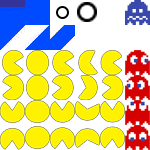
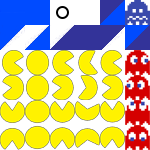
Last changes commit: maze edited; movement logic improvements; new textures added

Changed region(s): [[0.32, 0.0, 1.0, 0.3467], [0.0, 0.0, 0.1867, 0.0533]]

diff --git a/MyGame.cpp b/MyGame.cpp
@@ -3,43 +3,70 @@
 
 using namespace sf;
 
-const int H = 21;
-const int W = 48;
+const int H = 24;
+const int W = 60;
 
 const int ts = 25;
 
 int q = 0;
 bool life = true;
-//52
+
 String TileMap[H] = {
-"BBBBBBBBBBBBBBBBBBBBBBBaAAAAAAAAAAAAAAAAAAAAKBBB",//0
-"BBBBBBBBBBBBBBBBBBBBBBaK        aK        aKBBBB",//1
-"BBBBBBBBBBBBBBBBBBBBBaK aK aPK aK aPK aK aKBBBBB",//2
-"BBBBBBBBBBBBBBBBBBBBaK        aK        aKBBBBBB",//3
-"BBBBBBBBBBBBBBBBBBBaK aK aK aPPK aK aK aKBBBBBBB",//4
-"BBBBBBBBBBBBBBBBBBaK aK     aK     aK aKBBBBBBBB",//5
-"BBBBBBBBBBBBBBBBBaAAAK aPK aK aPK aAAAKBBBBBBBBB",//6
-"BBBBBBBBBBBBBBBBBBBaK aPK    aPK aKBBBBBBBBBBBBB",//7
-"BBBBBBBBBBBBBBBaAAAK aPK aK aPK aAAAKBBBBBBBBBBB",//8
-"BBBBBBBBBBBBBBBBB   aK      aK   BBBBBBBBBBBBBBB",//9
-"BBBBBBBBBBBBBaAAAK aK aAAK aK aAAAKBBBBBBBBBBBBB",//10
-"BBBBBBBBBBBBBBBaK aK      aK aKBBBBBBBBBBBBBBBBB",//11
-"BBBBBBBBBBBaAAAK aK aPPK aK aAAAKBBBBBBBBBBBBBBB",//12
-"BBBBBBBBBBaK        aK        aKBBBBBBBBBBBBBBBB",//13
-"BBBBBBBBBaK aK aPK aK aPK aK aKBBBBBBBBBBBBBBBBB",//14
-"BBBBBBBBaK    aK  aK  aK    aKBBBBBBBBBBBBBBBBBB",//15
-"BBBBBBBaK aK aK aPPK aK aK aKBBBBBBBBBBBBBBBBBBB",//16
-"BBBBBBaK    aK  aK  aK    aKBBBBBBBBBBBBBBBBBBBB",//17
-"BBBBBaK aPPPPK aK aPPPPK aKBBBBBBBBBBBBBBBBBBBBB",//18
-"BBBBaK                  aKBBBBBBBBBBBBBBBBBBBBBB",//19
-"BBBaAAAAAAAAAAAAAAAAAAAAKBBBBBBBBBBBBBBBBBBBBBBBB",//20
+"BBBBBBBBBBBBBBBBBBBBBBBBaAAAAAAAAAAAAAAAAAAAAAAAAAAAAAAAAMBB",//0
+"BBBBBBBBBBBBBBBBBBBBBBBaM______________+M______________+M-BB",//1
+"BBBBBBBBBBBBBBBBBBBBBBaM-             aM-             aM-BBB",//2
+"BBBBBBBBBBBBBBBBBBBBBaM- aPPM0 aPPM0 aM- aPPM0 aPPM0 aM-BBBB",//3
+"BBBBBBBBBBBBBBBBBBBBaM- aPPM- aPPM- aM- aPPM- aPPM- aM-BBBBB",//4
+"BBBBBBBBBBBBBBBBBBBaM- 0___- 0___- aM- 0___- 0___- aM-BBBBBB",//5
+"BBBBBBBBBBBBBBBBBBaM-             aM-             aM-BBBBBBB",//6
+"BBBBBBBBBBBBBBBBBaM- aPPM0 aPPM0 aM- aPPM0 aPPM0 aM-BBBBBBBB",//7
+"BBBBBBBBBBBBBBBBaM- 0___- 0___- aM- 0___- 0___- aM-BBBBBBBBB",//8
+"BBBBBBBBBBBBBBBaM-             aM-             aM-BBBBBBBBBB",//9
+"BBBBBBBBBBBBBBaAAPM0 aPPPPPPPPPPPPPPPPPPPM0 aPPM-BBBBBBBBBBB",//10
+"BBBBBBBBBBBBB0__+M- 0____________________- aM__-BBBBBBBBBBBB",//11
+"BBBBBBBBBBBBaAAAM-                        aAAAMBBBBBBBBBBBBB",//12
+"BBBBBBBBBBB0____- aPPPPPPPPPPPPPPPPPPPM0 0____-BBBBBBBBBBBBB",//13
+"BBBBBBBBBBBBBBBB 0____________________- BBBBBBBBBBBBBBBBBBBB",//14
+"BBBBBBBBBaAAAM0                        aAAAM0BBBBBBBBBBBBBBB",//15
+"BBBBBBBBB__+M- aPPPPPPPPPPPPPPPPPPPM0 aM___-BBBBBBBBBBBBBBBB",//16
+"BBBBBBBBBBaM- 0________+M__________- aM-BBBBBBBBBBBBBBBBBBBB",//17
+"BBBBBBBBBaM-          aM-           aM-BBBBBBBBBBBBBBBBBBBBB",//18
+"BBBBBBBBaM- aPPPPPM0 aM- aPPPPPPM0 aM-BBBBBBBBBBBBBBBBBBBBBB",//19
+"BBBBBBBaM- 0______- aM- 0_______- aM-BBBBBBBBBBBBBBBBBBBBBBB",//20
+"BBBBBBaM-          aM-           aM-BBBBBBBBBBBBBBBBBBBBBBBB",//21
+"BBBBBaAAAAAAAAAAAAAAAAAAAAAAAAAAAM-BBBBBBBBBBBBBBBBBBBBBBBBB",//22
+"BBBB0____________________________-BBBBBBBBBBBBBBBBBBBBBBBBBB",//23
 };
+
+//String TileMap[H] = {
+//"BBBBBBBBBBBBBBBBBBBBBBBaAAAAAAAAAAAAAAAAAAAAKBBB",//0
+//"BBBBBBBBBBBBBBBBBBBBBBaK        aK        aKBBBB",//1
+//"BBBBBBBBBBBBBBBBBBBBBaK aK aPK aK aPK aK aKBBBBB",//2
+//"BBBBBBBBBBBBBBBBBBBBaK        aK        aKBBBBBB",//3
+//"BBBBBBBBBBBBBBBBBBBaK aK aK aPPK aK aK aKBBBBBBB",//4
+//"BBBBBBBBBBBBBBBBBBaK aK     aK     aK aKBBBBBBBB",//5
+//"BBBBBBBBBBBBBBBBBaAAAK aPK aK aPK aAAAKBBBBBBBBB",//6
+//"BBBBBBBBBBBBBBBBBBBaK aPK    aPK aKBBBBBBBBBBBBB",//7
+//"BBBBBBBBBBBBBBBaAAAK aPK aK aPK aAAAKBBBBBBBBBBB",//8
+//"BBBBBBBBBBBBBBBBB   aK      aK   BBBBBBBBBBBBBBB",//9
+//"BBBBBBBBBBBBBaAAAK aK aAAK aK aAAAKBBBBBBBBBBBBB",//10
+//"BBBBBBBBBBBBBBBaK aK      aK aKBBBBBBBBBBBBBBBBB",//11
+//"BBBBBBBBBBBaAAAK aK aPPK aK aAAAKBBBBBBBBBBBBBBB",//12
+//"BBBBBBBBBBaK        aK        aKBBBBBBBBBBBBBBBB",//13
+//"BBBBBBBBBaK aK aPK aK aPK aK aKBBBBBBBBBBBBBBBBB",//14
+//"BBBBBBBBaK    aK  aK  aK    aKBBBBBBBBBBBBBBBBBB",//15
+//"BBBBBBBaK aK aK aPPK aK aK aKBBBBBBBBBBBBBBBBBBB",//16
+//"BBBBBBaK    aK  aK  aK    aKBBBBBBBBBBBBBBBBBBBB",//17
+//"BBBBBaK aPPPPK aK aPPPPK aKBBBBBBBBBBBBBBBBBBBBB",//18
+//"BBBBaK                  aKBBBBBBBBBBBBBBBBBBBBBB",//19
+//"BBBaAAAAAAAAAAAAAAAAAAAAKBBBBBBBBBBBBBBBBBBBBBBBB",//20
+//};
 
 class Player {
 public:
 	float frame = 0;
 	int x = 22, y = 9;
-	int newx = 25, newy = 9;
+	int newx = 32, newy = 12;
 	int rotate = 1, ti = 0;
 
 	void update() {
@@ -48,22 +75,25 @@ public:
 			frame -= 5;
 
 		ti++;
-		if (ti >= 1500) {
+		if (ti >= 500) {
 			switch (rotate)
 			{
 			case 1:
 				if (TileMap[y][newx + 1] != 'A'&& TileMap[y][newx + 1] != 'K' && TileMap[y][newx + 1] != 'P'
-					&& TileMap[y][newx + 1] != 'a')
+					&& TileMap[y][newx + 1] != 'a' && TileMap[y][newx + 1] != '0' && TileMap[y][newx + 1] != '_'
+					&& TileMap[y][newx + 1] != '-' && TileMap[y][newx + 1] != 'M')
 					newx += 1;
 				break;
 			case 2:
 				if (TileMap[y][newx - 1] != 'A' && TileMap[y][newx - 1] != 'K' && TileMap[y][newx - 1] != 'P' 
-					&& TileMap[y][newx - 1] != 'a')
+					&& TileMap[y][newx - 1] != 'a' && TileMap[y][newx - 1] != '0' && TileMap[y][newx - 1] != '_'
+					&& TileMap[y][newx - 1] != '-' && TileMap[y][newx - 1] != 'M')
 					newx -= 1;
 				break;
 			case 3:
 				if (TileMap[newy - 1][x+1] != 'A' && TileMap[newy - 1][x+1] != 'K' && TileMap[newy - 1][x+1] != 'P'
-					&& TileMap[newy - 1][x+1] != 'a')
+					&& TileMap[newy - 1][x+1] != 'a' && TileMap[newy - 1][x + 1] != '0' && TileMap[newy - 1][x + 1] != '_'
+					&& TileMap[newy - 1][x + 1] != '-' && TileMap[newy - 1][x + 1] != 'M')
 				{
 					newy -= 1;
 					newx += 1;
@@ -71,7 +101,8 @@ public:
 				break;
 			case 4:
 				if (TileMap[newy + 1][x-1] != 'A' && TileMap[newy + 1][x-1] != 'K' && TileMap[newy + 1][x-1] != 'P' 
-					&& TileMap[newy + 1][x-1] != 'a')
+					&& TileMap[newy + 1][x-1] != 'a' && TileMap[newy + 1][x - 1] != '0' && TileMap[newy + 1][x - 1] != '_'
+					&& TileMap[newy + 1][x - 1] != '-' && TileMap[newy + 1][x - 1] != 'M')
 				{
 					newy += 1;
 					newx -= 1;
@@ -98,13 +129,14 @@ public:
 			y = newy;
 		}
 
-		if (newy == 9 && (newx == 13 || newx == 35)) {
-			if (newx == 13)
-				newx = 34;
+		if (newy == 14 && (newx == 10 || newx == 45)) {
+			if (newx == 10)
+				newx = 44;
 			else
-				newx = 14;
+				newx = 11;
 
 			TileMap[y][x] = 'B';
+
 			TileMap[newy][newx] = 'C';
 
 			x = newx;
@@ -115,14 +147,14 @@ public:
 
 class Enemy {
 public:
-	int x[4] = { 1, 17 , 1, 17 }, y[4] = { 1, 1, 19, 19 };
-	int newx[4] = { 0 , 0 , 0, 0 }, newy[4] = { 0, 0, 0, 0 };
+	int x[4] = { 26 , 53 , 10, 32 }, y[4] = { 2, 2, 21, 21 };
+	int newx[4] = { 26 , 53 , 10, 32 }, newy[4] = { 2, 2, 21, 21 };
 	int rotate[4] = { 1, 1, 1, 1 }, ti = 0;
 
 	void update() {
 		ti++;
 
-		if (ti >= 1500) {
+		if (ti >= 500) {
 			for (int i = 0; i < 4; i++) {
 				rotate[i] = rand() % 4 + 1;
 
@@ -132,20 +164,34 @@ public:
 				switch (rotate[i])
 				{
 				case 1:
-					if (TileMap[y[i]][newx[i] + 1] != 'A')
+					if (TileMap[y[i]][newx[i] + 1] != 'A'&& TileMap[y[i]][newx[i] + 1] != 'a' && TileMap[y[i]][newx[i] + 1] != '_'
+						&& TileMap[y[i]][newx[i] + 1] != '0' && TileMap[y[i]][newx[i] + 1] != 'K' && TileMap[y[i]][newx[i] + 1] != 'P'
+						&& TileMap[y[i]][newx[i] + 1] != 'M' && TileMap[y[i]][newx[i] + 1] != '-')
 						newx[i] += 1;
 					break;
 				case 2:
-					if (TileMap[y[i]][newx[i] - 1] != 'A')
+					if (TileMap[y[i]][newx[i] - 1] != 'A' && TileMap[y[i]][newx[i] - 1] != 'a' && TileMap[y[i]][newx[i] - 1] != '_'
+						&& TileMap[y[i]][newx[i] - 1] != '0' && TileMap[y[i]][newx[i] - 1] != 'K' && TileMap[y[i]][newx[i] - 1] != 'P'
+						&& TileMap[y[i]][newx[i] - 1] != 'M' && TileMap[y[i]][newx[i] - 1] != '-')
 						newx[i] -= 1;
 					break;
 				case 3:
-					if (TileMap[newy[i] - 1][x[i]] != 'A')
+					if (TileMap[newy[i] - 1][x[i]+1] != 'A' && TileMap[newy[i] - 1][x[i]+1] != 'a' && TileMap[newy[i] - 1][x[i]+1] != '_'
+						&& TileMap[newy[i] - 1][x[i]+1] != '0' && TileMap[newy[i] - 1][x[i]+1] != 'K' && TileMap[newy[i] - 1][x[i]+1] != 'P'
+						&& TileMap[newy[i] - 1][x[i]+1] != 'M' && TileMap[newy[i] - 1][x[i]+1] != '-')
+					{
 						newy[i] -= 1;
+						newx[i] += 1;
+					}
 					break;
 				case 4:
-					if (TileMap[newy[i] + 1][x[i]] != 'A')
+					if (TileMap[newy[i] + 1][x[i]-1] != 'A' && TileMap[newy[i] + 1][x[i]-1] != 'a' && TileMap[newy[i] + 1][x[i]-1] != '_'
+						&& TileMap[newy[i] + 1][x[i]-1] != '0' && TileMap[newy[i] + 1][x[i]-1] != 'K' && TileMap[newy[i] + 1][x[i]-1] != 'P'
+						&& TileMap[newy[i] + 1][x[i]-1] != 'M' && TileMap[newy[i] + 1][x[i]-1] != '-')
+					{
 						newy[i] += 1;
+						newx[i] -= 1;
+					}
 					break;
 				}
 			}
@@ -176,11 +222,11 @@ public:
 				y[i] = newy[i];
 			}
 
-			if (newy[i] == 9 && (newx[i] == 0 || newx[i] == 18)) {
-				if (newx[i] == 0)
-					newx[i] = 17;
+			if (newy[i] == 14 && (newx[i] == 10 || newx[i] == 45)) {
+				if (newx[i] == 10)
+					newx[i] = 44;
 				else
-					newx[i] = 1;
+					newx[i] = 11;
 
 				TileMap[y[i]][x[i]] = 'B';
 
@@ -205,7 +251,7 @@ int main() {
 	RenderWindow window(VideoMode(W * ts, H * ts), "Maze!");
 
 	Texture t;
-	t.loadFromFile("source/title_2.png");
+	t.loadFromFile("source/title_2_3.png");
 	Sprite plat(t);
 
 	Texture yw;
@@ -229,7 +275,7 @@ int main() {
 			if (event.type == Event::Closed)
 				window.close();
 
-			if (q < 171 && life)
+			if (q < 218 && life)
 				if (event.type == Event::KeyPressed) {
 					p.newx = p.x;
 					p.newy = p.y;
@@ -245,9 +291,9 @@ int main() {
 				}
 		}
 
-		if (q < 171 && life) {
+		if (q < 218 && life) {
 			p.update();
-			//en.update();
+			en.update();
 		}
 		window.clear(Color::Black);
 
@@ -261,18 +307,28 @@ int main() {
 					plat.setTextureRect(IntRect(ts, ts, ts, ts));
 				if (TileMap[i][j] == 'K')
 					plat.setTextureRect(IntRect(0, ts, ts, ts));
+				if (TileMap[i][j] == 'M')
+					plat.setTextureRect(IntRect(5*ts, ts, ts, ts));
 				if (TileMap[i][j] == 'C')
 					plat.setTextureRect(IntRect(ts * (int(p.frame)), ts * (p.rotate+1), ts, ts));
 				if (TileMap[i][j] == ' ')
 					plat.setTextureRect(IntRect(2*ts, 0, ts, ts));
-				/*if (TileMap[i][j] == '1')
-					plat.setTextureRect(IntRect(ts * 5, ts * en.rotate[0], ts, ts));
+				if (TileMap[i][j] == '_')//np
+					plat.setTextureRect(IntRect(3 * ts, ts, ts, ts));
+				if (TileMap[i][j] == '-')//MINUS
+					plat.setTextureRect(IntRect(4* ts, 1*ts, ts, ts));
+				if (TileMap[i][j] == '+')//PLUS
+					plat.setTextureRect(IntRect(4 * ts, 0 * ts, ts, ts));
+				if (TileMap[i][j] == '0')
+					plat.setTextureRect(IntRect(3*ts,0*ts, ts, ts));
+				if (TileMap[i][j] == '1')
+					plat.setTextureRect(IntRect(ts * 5, ts * (en.rotate[0]+1), ts, ts));
 				if (TileMap[i][j] == '2')
-					plat.setTextureRect(IntRect(ts * 5, ts * en.rotate[1], ts, ts));
+					plat.setTextureRect(IntRect(ts * 5, ts * (en.rotate[1]+1), ts, ts));
 				if (TileMap[i][j] == '3')
-					plat.setTextureRect(IntRect(ts * 5, ts * en.rotate[2], ts, ts));
+					plat.setTextureRect(IntRect(ts * 5, ts * (en.rotate[2]+1), ts, ts));
 				if (TileMap[i][j] == '4')
-					plat.setTextureRect(IntRect(ts * 5, ts * en.rotate[3], ts, ts));*/
+					plat.setTextureRect(IntRect(ts * 5, ts * (en.rotate[3]+1), ts, ts));
 				if (TileMap[i][j] == 'B')
 					continue;
 
@@ -280,7 +336,7 @@ int main() {
 				window.draw(plat);
 			}
 
-		if (q == 171)
+		if (q == 218)
 			window.draw(youwin);
 		if (!life)
 			window.draw(youlose);
